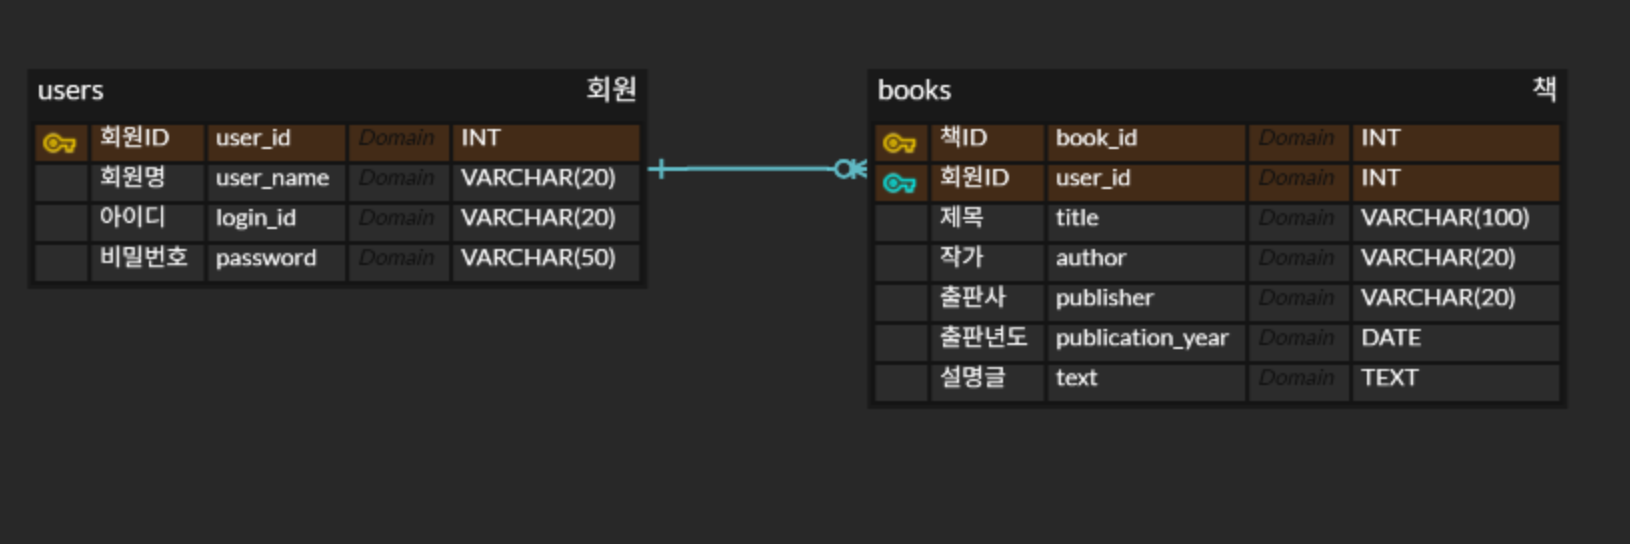
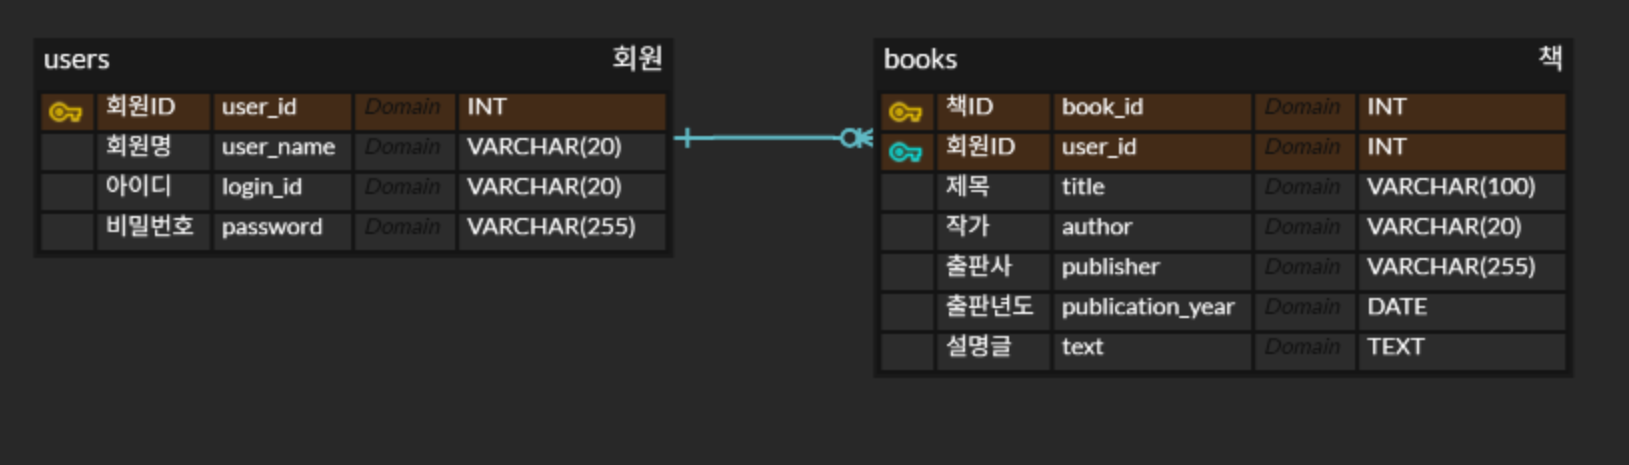
refactor: Controller to RestController

diff --git a/src/main/java/Spring_Project/MicroLibAPI/controller/BookController.java b/src/main/java/Spring_Project/MicroLibAPI/controller/BookController.java
@@ -1,18 +1,13 @@
 package Spring_Project.MicroLibAPI.controller;
 
-import Spring_Project.MicroLibAPI.dto.books.BookCreateRequestDTO;
-import Spring_Project.MicroLibAPI.dto.books.BookListResponseDTO;
-import Spring_Project.MicroLibAPI.dto.books.BookResponseDTO;
-import Spring_Project.MicroLibAPI.dto.books.BookUpdateRequestDTO;
+import Spring_Project.MicroLibAPI.dto.books.*;
 import Spring_Project.MicroLibAPI.service.BookService;
 import org.springframework.beans.factory.annotation.Autowired;
-import org.springframework.stereotype.Controller;
-import org.springframework.ui.Model;
-import org.springframework.web.bind.annotation.GetMapping;
-import org.springframework.web.bind.annotation.PathVariable;
-import org.springframework.web.bind.annotation.PostMapping;
+import org.springframework.http.HttpStatus;
+import org.springframework.http.ResponseEntity;
+import org.springframework.web.bind.annotation.*;
 
-@Controller
+@RestController
 public class BookController {
     private BookService bookService;
 
@@ -21,46 +16,50 @@ public class BookController {
         this.bookService = bookService;
     }
 
-    @GetMapping("/books/new")
-    public String createBookForm() {
-        return "/books/createBookForm";
-    }
-
     @PostMapping("/books/new")
-    public String createBook(BookCreateRequestDTO request) {
-        bookService.createBook(request);
+    public ResponseEntity<Long> createBook(@RequestBody BookCreateRequestDTO request) {
+        Long book_id = bookService.createBook(request);
 
-        return "redirect:/books";
+        return ResponseEntity.status(HttpStatus.CREATED).body(book_id);
     }
 
     @GetMapping("/books")
-    public String listBooks(Model model) {
+    public ResponseEntity<BookListResponseDTO> listBooks() {
         BookListResponseDTO response = bookService.findAll();
-        model.addAttribute("books", response.getBooks());
 
-        return  "/books/bookList";
+        return  ResponseEntity.ok(response);
     }
 
     @GetMapping("/books/{book_id}")
-    public String viewBook(@PathVariable("book_id") Long book_id, Model model) {
-        model.addAttribute("book", bookService.findById(book_id));
+    public ResponseEntity<BookResponseDTO> viewBook(@PathVariable("book_id") Long book_id) {
+         BookResponseDTO response = bookService.findById(book_id);
 
-        return "/books/bookDetailForm";
+        return ResponseEntity.ok(response);
     }
 
-    @PostMapping("/books/{book_id}")
-    public String updateBook(@PathVariable("book_id") Long book_id, BookUpdateRequestDTO request) {
+    @PutMapping("/books/{book_id}")
+    public ResponseEntity<BookResponseDTO> updateBook(@PathVariable("book_id") Long book_id, @RequestBody BookUpdateRequestDTO request) {
         BookResponseDTO book = bookService.findById(book_id);
 
-        if (request.getAction().equals("update")) {
-            bookService.updateBook(book_id, request);
-        }
-        else if (request.getAction().equals("delete") && book.getUser_id().equals(request.getUser_id())) {
-            bookService.deleteById(book_id);
-
-            return  "redirect:/books";
+        if (!book.getUser_id().equals(request.getUser_id())) {
+            return ResponseEntity.status(HttpStatus.FORBIDDEN).build();
         }
 
-        return  "redirect:/books/" + book_id;
+        bookService.updateBook(book_id, request);
+        BookResponseDTO updatedBook = bookService.findById(book_id);
+
+        return ResponseEntity.ok(updatedBook);
+    }
+
+    @DeleteMapping("/books/{book_id}")
+    public ResponseEntity<Void> deleteBook(@PathVariable("book_id") Long book_id, @RequestBody BookDeleteRequestDTO request) {
+        BookResponseDTO book = bookService.findById(book_id);
+
+        if (!book.getUser_id().equals(request.getUser_id())) {
+            return ResponseEntity.status(HttpStatus.FORBIDDEN).build();
+        }
+
+        bookService.deleteById(book_id);
+        return ResponseEntity.noContent().build();
     }
 }

diff --git a/src/main/java/Spring_Project/MicroLibAPI/controller/UserController.java b/src/main/java/Spring_Project/MicroLibAPI/controller/UserController.java
@@ -2,13 +2,14 @@ package Spring_Project.MicroLibAPI.controller;
 
 import Spring_Project.MicroLibAPI.dto.users.UserCreateRequestDTO;
 import Spring_Project.MicroLibAPI.dto.users.UserPatchRequestDTO;
+import Spring_Project.MicroLibAPI.dto.users.UserResponseDTO;
 import Spring_Project.MicroLibAPI.service.UserService;
 import org.springframework.beans.factory.annotation.Autowired;
-import org.springframework.stereotype.Controller;
-import org.springframework.ui.Model;
+import org.springframework.http.HttpStatus;
+import org.springframework.http.ResponseEntity;
 import org.springframework.web.bind.annotation.*;
 
-@Controller
+@RestController
 public class UserController {
 
     private UserService userService;
@@ -17,34 +18,24 @@ public class UserController {
         this.userService = userService;
     }
 
-    @GetMapping("/")
-    public String index() {
-        return "index";
-    }
-
-    @GetMapping("users/new")
-    public String createUserForm() {
-        return "users/createUserForm";
-    }
-
     @PostMapping("users/new")
-    public String register(UserCreateRequestDTO request) {
+    public ResponseEntity<Long> register(@RequestBody UserCreateRequestDTO request) {
         Long user_id = userService.signUp(request);
 
-        return "redirect:/users/" +  user_id;
+        return ResponseEntity.status(HttpStatus.CREATED).body(user_id);
     }
 
     @GetMapping("/users/{user_id}")
-    public String userProfileForm(@PathVariable("user_id") Long user_id, Model model) {
-        model.addAttribute("user", userService.findById(user_id));
+    public ResponseEntity<UserResponseDTO> userProfileForm(@PathVariable("user_id") Long user_id) {
+        UserResponseDTO response = userService.findById(user_id);
 
-        return "users/userProfileForm";
+        return ResponseEntity.ok(response);
     }
 
-    @PostMapping("/users/patch")
-    public String patchUserInfo(UserPatchRequestDTO request) {
-        userService.patchUser(request);
+    @PatchMapping("/users/{user_id}")
+    public ResponseEntity<UserResponseDTO> patchUserInfo(@PathVariable Long user_id, @RequestBody UserPatchRequestDTO request) {
+        UserResponseDTO response = userService.patchUser(user_id, request);
 
-        return "redirect:/";
+        return ResponseEntity.ok(response);
     }
 }

diff --git a/src/main/java/Spring_Project/MicroLibAPI/service/BookService.java b/src/main/java/Spring_Project/MicroLibAPI/service/BookService.java
@@ -23,29 +23,30 @@ public class BookService {
     }
 
     public BookResponseDTO findById(Long book_id) {
-        Optional<Books> book = Optional.of(bookRepository.findById(book_id)
-                .orElseThrow(() -> new IllegalArgumentException("해당 책이 존재하지 없습니다. book_id: " + book_id)));
+        Books book = bookRepository.findById(book_id)
+                .orElseThrow(() -> new IllegalArgumentException("해당 책이 존재하지 없습니다. book_id: " + book_id));
 
-        return new BookResponseDTO(book.get());
+        return new BookResponseDTO(book);
     }
 
     public BookListResponseDTO findAll() {
         return new BookListResponseDTO(bookRepository.findAll());
     }
 
-    public void createBook(BookCreateRequestDTO request) {
-        Optional<Users> user = Optional.of(userRepository.findById(request.getUser_id())
-                .orElseThrow(() -> new IllegalArgumentException("해당 회원이 존재하지 없습니다. book_id: " + request.getUser_id())));
+    public Long createBook(BookCreateRequestDTO request) {
+        Users user = userRepository.findById(request.getUser_id())
+                .orElseThrow(() -> new IllegalArgumentException("해당 회원이 존재하지 없습니다. book_id: " + request.getUser_id()));
 
-        Books book = request.toEntity(user.get());
+        Books book = request.toEntity(user);
         bookRepository.save(book);
+        return book.getBook_id();
     }
 
     public void updateBook(Long book_id, BookUpdateRequestDTO request) {
-        Optional<Books> book = Optional.of(bookRepository.findById(book_id)
-                .orElseThrow(() -> new IllegalArgumentException("해당 책이 존재하지 없습니다. book_id: " + book_id)));
+        Books book = bookRepository.findById(book_id)
+                .orElseThrow(() -> new IllegalArgumentException("해당 책이 존재하지 없습니다. book_id: " + book_id));
 
-        book.get().update(request);
+        book.update(request);
     }
 
     public void deleteById(Long book_id) {

diff --git a/src/main/java/Spring_Project/MicroLibAPI/service/UserService.java b/src/main/java/Spring_Project/MicroLibAPI/service/UserService.java
@@ -31,11 +31,13 @@ public class UserService {
         return new UserResponseDTO(user);
     }
 
-    public void patchUser(UserPatchRequestDTO request) {
-        Users user = userRepository.findByLoginId(request.getLoginId())
-                .orElseThrow(() -> new IllegalArgumentException("해당 회원이 존재하지 없습니다. login_id: " + request.getLoginId()));
+    public UserResponseDTO patchUser(Long user_id, UserPatchRequestDTO request) {
+        Users user = userRepository.findById(user_id)
+                .orElseThrow(() -> new IllegalArgumentException("해당 회원이 존재하지 없습니다. user_id: " + user_id));
 
         user.patch(request);
         userRepository.save(user);
+
+        return new UserResponseDTO(user);
     }
 }

diff --git a/src/main/java/Spring_Project/MicroLibAPI/dto/books/BookUpdateRequestDTO.java b/src/main/java/Spring_Project/MicroLibAPI/dto/books/BookUpdateRequestDTO.java
@@ -12,16 +12,14 @@ public class BookUpdateRequestDTO {
     private String author;
     private String publisher;
     private LocalDate published_date;
-    private String action;
 
-    public BookUpdateRequestDTO(String title, Long user_id, String description, String author, String publisher, LocalDate published_date, String action) {
+    public BookUpdateRequestDTO(String title, Long user_id, String description, String author, String publisher, LocalDate published_date) {
         this.title = title;
         this.user_id = user_id;
         this.description = description;
         this.author = author;
         this.publisher = publisher;
         this.published_date = published_date;
-        this.action = action;
     }
 
 }

diff --git a/src/main/java/Spring_Project/MicroLibAPI/dto/books/BookDeleteRequestDTO.java b/src/main/java/Spring_Project/MicroLibAPI/dto/books/BookDeleteRequestDTO.java
@@ -1,0 +1,12 @@
+package Spring_Project.MicroLibAPI.dto.books;
+
+import lombok.Getter;
+
+@Getter
+public class BookDeleteRequestDTO {
+    private Long user_id;
+
+    public BookDeleteRequestDTO(Long user_id) {
+        this.user_id = user_id;
+    }
+}
